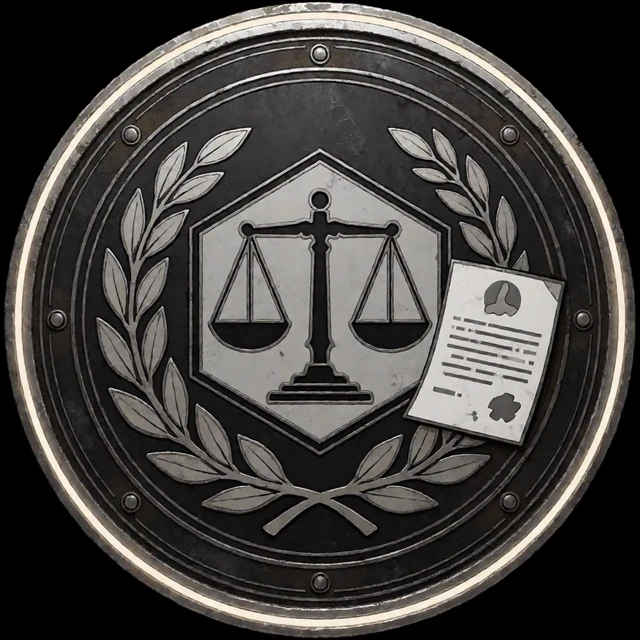
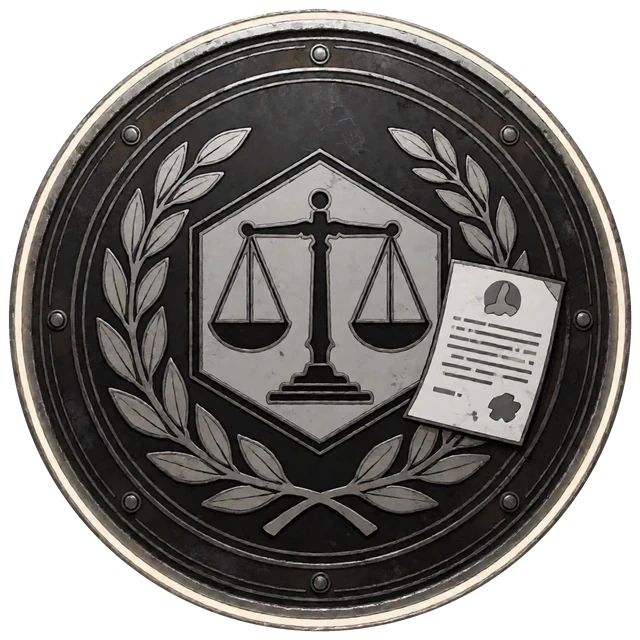
style: circular transparent badges, rename wiki channel, adjust pronouns

Changed region(s): [[0.0, 0.0, 1.0, 1.0]]

diff --git a/web/linji-data.js b/web/linji-data.js
@@ -34,7 +34,7 @@ window.LINJI_ORGS = {
     walls: ["assets/linji/blue/wall-01.webp","assets/linji/blue/wall-02.webp","assets/linji/blue/wall-03.webp","assets/linji/blue/wall-04.webp","assets/linji/blue/wall-05.webp"],
     motto: "秩序不是没有裂缝，是裂缝有人守着。",
     summary: "临极市的治安协会，负责封控、取证与保护档案。蓝盾之下，所有事故都必须有一个编号。",
-    lore: "Zwei 青盾分局的制服沿用了旧城警署的剪裁：深蓝短外套、银盾徽、勤务腰带和长靴。她们不是军队，也不是纯粹的警察；她们同时负责把「不该存在于现场的东西」装进证物箱。分局内部有一条不成文的规定：进入档案地下层之前，必须把配枪留在门外。因为有些东西一旦被开枪，就会被城市正式承认为存在。",
+    lore: "Zwei 青盾分局的制服沿用了旧城警署的剪裁：深蓝短外套、银盾徽、勤务腰带和长靴。他们不是军队，也不是纯粹的警察；他们同时负责把「不该存在于现场的东西」装进证物箱。分局内部有一条不成文的规定：进入档案地下层之前，必须把配枪留在门外。因为有些东西一旦被开枪，就会被城市正式承认为存在。",
     doctrine: "先封锁，再命名；先保护现场，再保护自己。",
     uniform: "韩式警装剪裁的深蓝短外套、银盾徽、勤务腰带、短裙、黑色长袜与长筒靴。",
     relations: "与刘协会共同处理火灾现场；向 Hana 灰庭提交月度事故报告；对紫垣保持礼貌的不信任。",
@@ -46,7 +46,7 @@ window.LINJI_ORGS = {
     color: "#ffb547", badge: "assets/linji/amber/badge.webp",
     walls: ["assets/linji/amber/wall-01.webp","assets/linji/amber/wall-02.webp","assets/linji/amber/wall-03.webp","assets/linji/amber/wall-04.webp","assets/linji/amber/wall-05.webp"],
     motto: "火不分辨善恶，火只分辨还能不能烧。",
-    summary: "以锻造与净化闻名的协会。她们焚烧被污染的街区，也锻造封存污染的器具。",
+    summary: "以锻造与净化闻名的协会。他们焚烧被污染的街区，也锻造封存污染的器具。",
     lore: "刘协会的燧火来自一座从未熄灭的城市熔炉。每一把交付给其它协会的封存器具，都要在炉前经过一次「认领」：锻造者把手伸进火里，念出使用者的名字。手不会受伤，名字会。燧火相信，工具必须记得谁在用它，否则它迟早会自己选择主人。最近炉温连续十九天没有升高，炉膛里却传出了第零章的朗读声。",
     doctrine: "能锻造的东西，就能封存；能封存的东西，终有一天会想出来。",
     uniform: "琥珀色防火长大衣、金属护臂、黑色束具、黑色长袜与厚重长靴。",
@@ -60,7 +60,7 @@ window.LINJI_ORGS = {
     walls: ["assets/linji/sg/wall-01.webp","assets/linji/sg/wall-02.webp","assets/linji/sg/wall-03.webp","assets/linji/sg/wall-04.webp","assets/linji/sg/wall-05.webp"],
     motto: "世界线不会断裂，它只会被忘记自己曾经分岔。",
     summary: "观测并修正世界线的秘密机关。琥珀色的钟面，青绿色的读数，和一间不允许迟到的观测室。",
-    lore: "时计局的正式名称是「临极标准时计观测所」，但没有人在日常里这样叫它。局内保存着十九年前「静默事故」前后的全部时间残差；每一枚怀表都对应一条被修正过的分岔。局员相信，城市不是被事件推动的，而是被记录事件的方式推动的。她们与紫垣共享同一套编号，却从不承认第零章存在——因为一旦承认，所有被修正过的世界线都要重新计算。",
+    lore: "时计局的正式名称是「临极标准时计观测所」，但没有人在日常里这样叫它。局内保存着十九年前「静默事故」前后的全部时间残差；每一枚怀表都对应一条被修正过的分岔。局员相信，城市不是被事件推动的，而是被记录事件的方式推动的。他们与紫垣共享同一套编号，却从不承认第零章存在——因为一旦承认，所有被修正过的世界线都要重新计算。",
     doctrine: "不要问现在几点。问，你正在哪一条世界上。",
     uniform: "琥珀色计时员大衣、青绿内衬、黄铜怀表与线缆、黑色长袜与长靴。",
     relations: "向七协会购买证词时间戳；与紫垣互相审核编号；Hana 灰庭每年审计一次钟差。",
@@ -72,7 +72,7 @@ window.LINJI_ORGS = {
     color: "#8bd46f", badge: "assets/linji/green/badge.webp",
     walls: ["assets/linji/green/wall-01.webp","assets/linji/green/wall-02.webp","assets/linji/green/wall-03.webp","assets/linji/green/wall-04.webp","assets/linji/green/wall-05.webp"],
     motto: "没有沉默的证人，只有还没被归档的证词。",
-    summary: "情报、取证与审讯协会。她们在温室里保存证词，让植物替死者继续说话。",
+    summary: "情报、取证与审讯协会。他们在温室里保存证词，让植物替死者继续说话。",
     lore: "苍叶情报局的温室里种着一种没有学名的藤。把死者的遗物埋进土里，藤会沿着残留的记忆生长，在叶片背面留下可读的纹路。七协会称它为「证词植物」，并严禁任何人把活人埋进去。局内最古老的温室不对访客开放，里面只有一株藤和一张空椅子。藤的根部缠着一枚紫垣的旧徽章，徽章上的编号被人为磨掉了。",
     doctrine: "证据不会说话；但证据会让别的东西开口。",
     uniform: "深绿情报官风衣、窄领带、皮革胸带、黑色长袜与长靴。",
@@ -85,8 +85,8 @@ window.LINJI_ORGS = {
     color: "#ff6b78", badge: "assets/linji/red/badge.webp",
     walls: ["assets/linji/red/wall-01.webp","assets/linji/red/wall-02.webp","assets/linji/red/wall-03.webp","assets/linji/red/wall-04.webp","assets/linji/red/wall-05.webp"],
     motto: "有些东西不该被理解，只该被关回去。",
-    summary: "收容与战斗协会。她们处理「未记录者」，也是唯一被允许在档案局地下层携带武器的协会。",
-    lore: "六协会的赤烬制服上永远有洗不掉的烟味。她们的工作不是杀死异常，而是把异常重新推回「未被记录」的状态；因此每一次收容结束后，队员必须亲手烧掉自己的行动记录，只留下一个数字。数字由 Hana 灰庭保管，连紫垣也不能查阅。最近一次收容失败后，赤烬的队长开始在自己的手臂上记下那些被烧掉的数字。",
+    summary: "收容与战斗协会。他们处理「未记录者」，也是唯一被允许在档案局地下层携带武器的协会。",
+    lore: "六协会的赤烬制服上永远有洗不掉的烟味。他们的工作不是杀死异常，而是把异常重新推回「未被记录」的状态；因此每一次收容结束后，队员必须亲手烧掉自己的行动记录，只留下一个数字。数字由 Hana 灰庭保管，连紫垣也不能查阅。最近一次收容失败后，赤烬的队长开始在自己的手臂上记下那些被烧掉的数字。",
     doctrine: "如果它没有名字，就不要给它一个。",
     uniform: "绯红收容战斗大衣、重型束具、锁链饰件、黑色长袜与加固长靴。",
     relations: "受 Hana 灰庭直接调遣；与 Zwei 共同封控；对紫垣隐瞒收容现场；向刘协会订购封存链。",
@@ -99,7 +99,7 @@ window.LINJI_ORGS = {
     walls: ["assets/linji/gray/wall-01.webp","assets/linji/gray/wall-02.webp","assets/linji/gray/wall-03.webp","assets/linji/gray/wall-04.webp","assets/linji/gray/wall-05.webp"],
     motto: "契约不是承诺，契约是双方都同意忘记的例外。",
     summary: "协会之上的仲裁庭。负责执行「临极协定」，也负责决定哪些事故不配拥有档案。",
-    lore: "Hana 灰庭没有常设的审判席，只有一张长桌和八把椅子。八把椅子中有一把永远空着，椅背刻着第零章。灰庭的仲裁员相信，城市之所以还能运转，不是因为所有人都遵守契约，而是因为所有人都相信别人会遵守。她们保管着赤烬的行动数字、时计局的钟差、紫垣的空白页，却从不把它们放在同一个柜子里。",
+    lore: "Hana 灰庭没有常设的审判席，只有一张长桌和八把椅子。八把椅子中有一把永远空着，椅背刻着第零章。灰庭的仲裁员相信，城市之所以还能运转，不是因为所有人都遵守契约，而是因为所有人都相信别人会遵守。他们保管着赤烬的行动数字、时计局的钟差、紫垣的空白页，却从不把它们放在同一个柜子里。",
     doctrine: "不要问契约是否公平。问，谁有能力让它显得公平。",
     uniform: "灰色仲裁员套装、长外套、银色天平徽、黑色长袜与高跟长靴。",
     relations: "监督其余七个协会；向紫垣索取第零章；向时计局购买世界线审计；向六协会下达收容许可。",

diff --git a/web/index.html b/web/index.html
@@ -5,7 +5,7 @@
 <meta name="viewport" content="width=device-width, initial-scale=1, viewport-fit=cover">
 <meta name="theme-color" content="#08060d">
 <title>KiraKB // 临极档案 · LINJI ARCHIVE</title>
-<link rel="stylesheet" href="cathode.css?v=41">
+<link rel="stylesheet" href="cathode.css?v=50">
 </head>
 <body class="boot-hold" data-theme="violet" data-crt="high">
 <svg class="svg-defs" aria-hidden="true" focusable="false">
@@ -69,7 +69,7 @@
           <button class="channel" type="button" data-view="recall"><span class="ch-no">05</span><svg><use href="#i-radar"></use></svg><span class="ch-label"><b>召回</b><small>RECALL</small></span><span class="ch-pip"></span></button>
           <button class="channel" type="button" data-view="settings"><span class="ch-no">06</span><svg><use href="#i-sliders"></use></svg><span class="ch-label"><b>机台设置</b><small>SETTINGS</small></span><span class="ch-pip"></span></button>
           <button class="channel" type="button" data-view="tasks"><span class="ch-no">07</span><svg><use href="#i-activity"></use></svg><span class="ch-label"><b>任务</b><small>TASKS</small></span><span class="ch-pip"></span></button>
-          <button class="channel" type="button" data-view="wiki"><span class="ch-no">08</span><svg><use href="#i-book"></use></svg><span class="ch-label"><b>虚构档案</b><small>WIKI</small></span><span class="ch-pip"></span></button>
+          <button class="channel" type="button" data-view="wiki"><span class="ch-no">08</span><svg><use href="#i-book"></use></svg><span class="ch-label"><b>临极档案</b><small>WIKI</small></span><span class="ch-pip"></span></button>
         </nav>
         <div class="rail-archive">
           <div class="mini-label">ACTIVE ARCHIVE</div>
@@ -256,7 +256,7 @@
             <section class="view" data-view="wiki">
               <div class="view-art" data-art="wiki"></div>
               <div class="view-inner">
-                <div class="chapter-row"><span class="chapter-no">08</span><span class="chapter-rule"></span><span class="chapter-label">WIKI / 虚构档案</span><span class="chapter-stamp">STORY FIRST</span></div>
+                <div class="chapter-row"><span class="chapter-no">08</span><span class="chapter-rule"></span><span class="chapter-label">WIKI / 临极档案</span><span class="chapter-stamp">STORY FIRST</span></div>
                 <div class="page-title"><div><div class="eyebrow">A CITY THAT REMEMBERS ITSELF INTO BEING</div><h1 data-fx="decode">虚构的知识？<em>或许吧，这是故事</em></h1><p>临极市没有官方历史，只有八个协会共同承认的版本。你正在读的，是第九个。</p></div></div>
                 <div class="panel wiki-intro">
                   <div class="panel-head"><div><span class="mini-label">THE LINJI CONCORD / 临极协定</span><h2>八个协会，一座档案馆</h2></div><span class="badge">FICTION</span></div>
@@ -286,7 +286,7 @@
 <div id="toast" class="toast" role="status" aria-live="polite"></div>
 <div id="modalRoot"></div>
 <script src="linji-data.js"></script>
-<script src="textfx.js?v=31"></script>
-<script src="cathode.js?v=31"></script>
+<script src="textfx.js?v=40"></script>
+<script src="cathode.js?v=40"></script>
 </body>
 </html>

diff --git a/web/cathode.js b/web/cathode.js
@@ -26,7 +26,7 @@
     ["catalog", "主厅 / CATALOGUE"], ["versions", "版本 / VERSIONS"],
     ["search", "检索 / SEARCH"], ["access", "权限 / ACCESS"],
     ["recall", "召回 / RECALL"], ["settings", "设置 / SETTINGS"],
-    ["tasks", "任务 / TASKS"], ["wiki", "虚构档案 / WIKI"], ["ticker", "字幕框 / SUBTITLE"]
+    ["tasks", "任务 / TASKS"], ["wiki", "临极档案 / WIKI"], ["ticker", "字幕框 / SUBTITLE"]
   ];
   const VIEW_META = {
     catalog: ["01", "CATALOGUE"], versions: ["02", "VERSIONS"],
